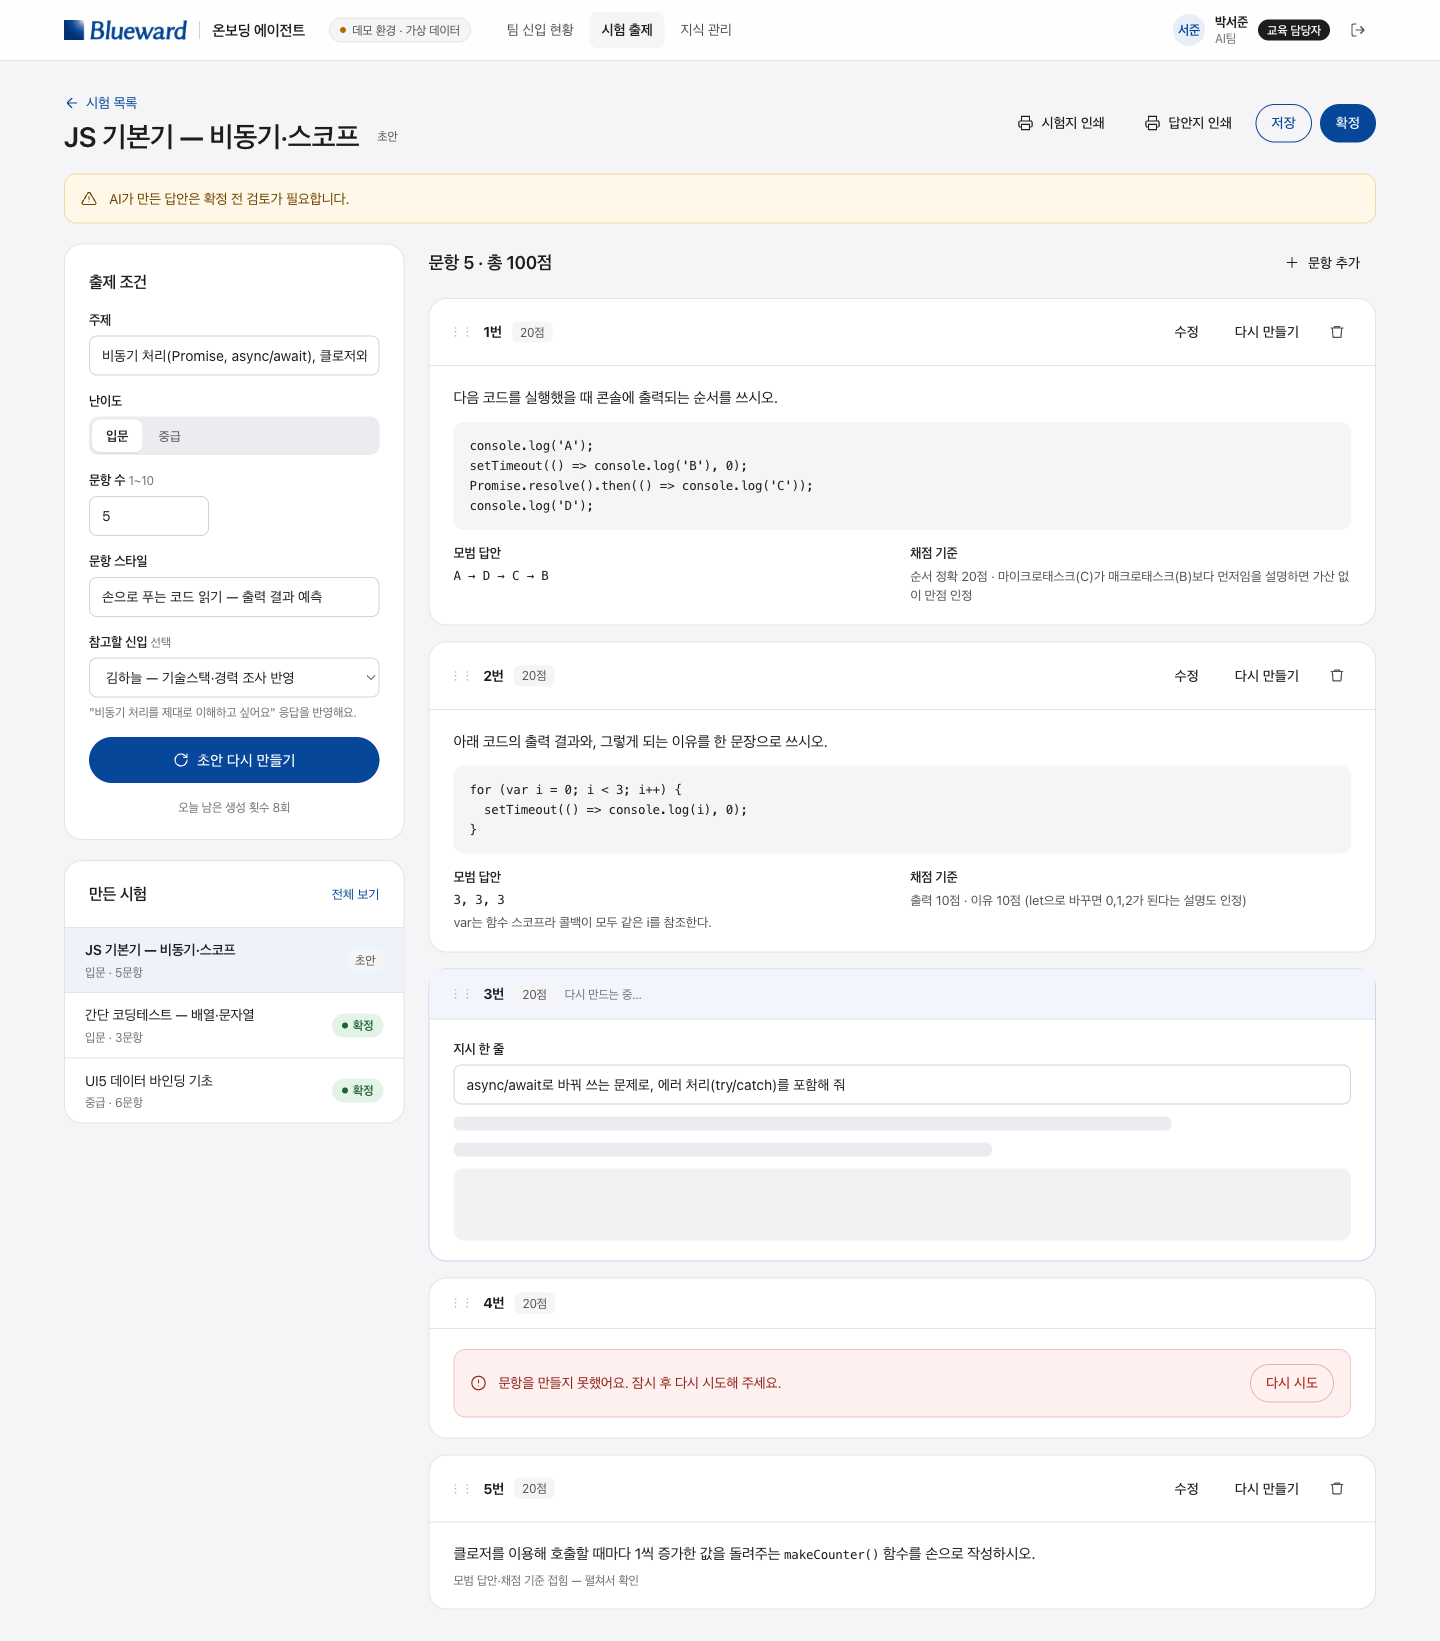
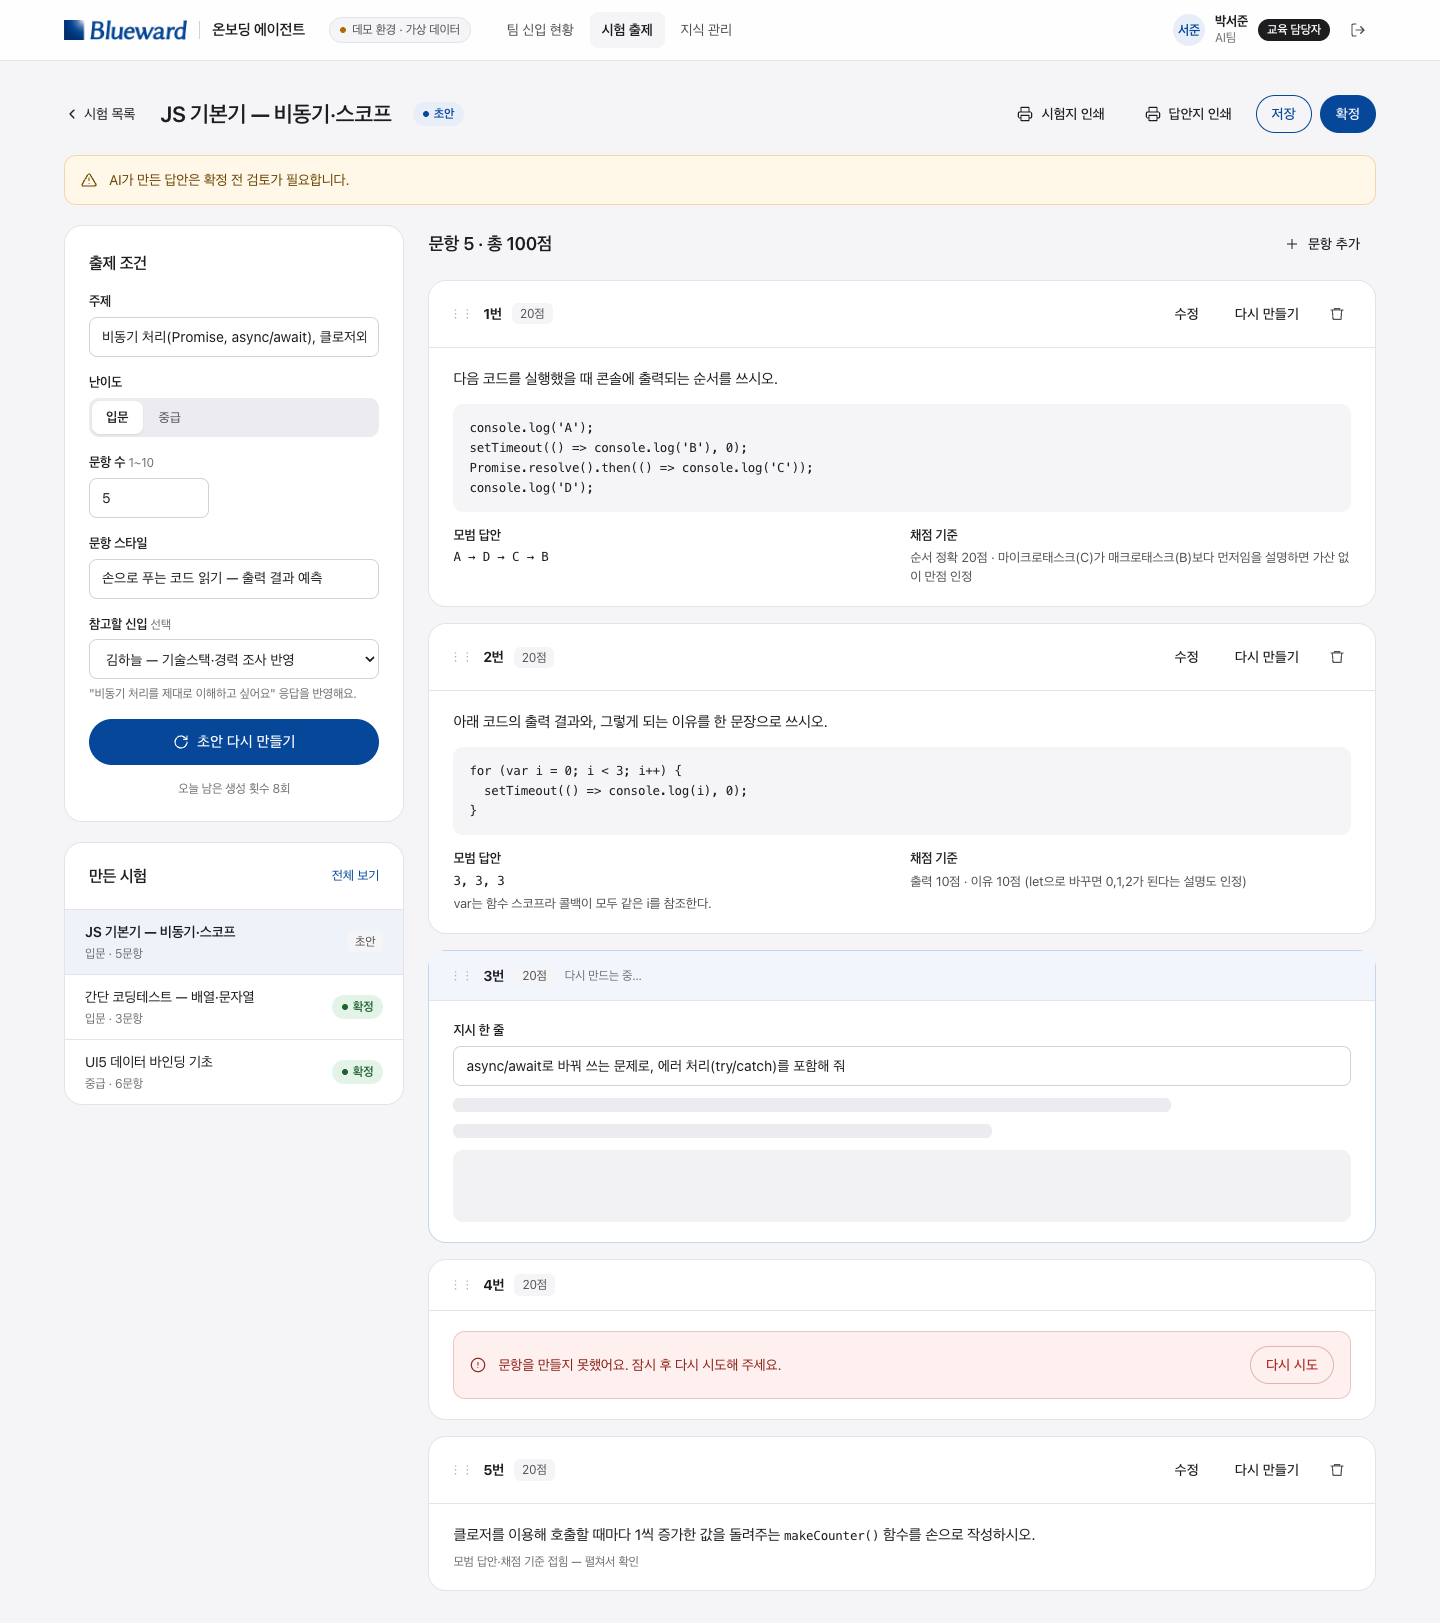
feat(web): group the exam title with its badge and remove row seams
- S7 exam editor header: back link, title and status badge sit together on
  the left (title input sizes to its text with field-sizing-content instead
  of flex-1), print/save/confirm stay grouped on the right.
- Selected/highlighted table rows (S9 ops inbox, S6 hire detail, S10
  unanswered question, S11 new user) showed a light 1px vertical seam at
  column boundaries in headed Chrome. Auto table layout gives fractional
  cell edges and Chrome paints the row background per cell, half-covering
  the shared pixel; moving the background to td alone did not remove it.
  Paint the cells and cover the seam with a 1px same-colour box-shadow
  (components/tableRow.ts). Hover only applies to unselected rows so it no
  longer hides the selection colour.
- Mockup: S7 header and .tbl selected row rule updated; rules recorded in
  system.md.

diff --git a/apps/web/src/features/exam/ExamEditorPage.tsx b/apps/web/src/features/exam/ExamEditorPage.tsx
@@ -234,22 +234,28 @@ function ExamEditor({ initial }: { initial?: ExamWithQuestions }) {
 
   return (
     <main className="mx-auto grid max-w-[1376px] gap-6 p-6 lg:p-8">
-      <div className="flex flex-wrap items-center gap-3">
-        <Link to="/team/exams" className="inline-flex items-center gap-1 text-sm">
-          <ChevronLeft className="size-4" />
-          시험 목록
-        </Link>
-        <Input
-          aria-label="시험 제목"
-          disabled={busy}
-          value={title}
-          placeholder="시험 제목(비우면 주제로 저장)"
-          maxLength={200}
-          onChange={(e) => setTitle(e.target.value)}
-          className="h-10 max-w-md flex-1 border-transparent bg-transparent text-title font-semibold shadow-none hover:border-input md:text-title"
-        />
-        <Badge variant={status === 'final' ? 'done' : 'todo'}>{EXAM_STATUS_LABEL[status]}</Badge>
-        <div className="ml-auto flex flex-wrap gap-2">
+      {/* 왼쪽: 뒤로 가기 · 제목 · 상태 배지를 붙여 묶는다. 오른쪽: 인쇄 2 · 저장 · 확정 (시안 S7 머리) */}
+      <div className="flex flex-wrap items-center justify-between gap-3">
+        <div className="flex min-w-0 flex-wrap items-center gap-3">
+          <Link to="/team/exams" className="inline-flex items-center gap-1 text-sm">
+            <ChevronLeft className="size-4" />
+            시험 목록
+          </Link>
+          <div className="flex min-w-0 items-center gap-2">
+            {/* 글자 길이만큼만 넓어진다(field-sizing, 최소 96·최대 576). 비어 있으면 placeholder 길이 */}
+            <Input
+              aria-label="시험 제목"
+              disabled={busy}
+              value={title}
+              placeholder="시험 제목(비우면 주제로 저장)"
+              maxLength={200}
+              onChange={(e) => setTitle(e.target.value)}
+              className="h-10 w-auto max-w-xl min-w-24 field-sizing-content border-transparent bg-transparent text-title font-semibold shadow-none hover:border-input md:text-title"
+            />
+            <Badge variant={status === 'final' ? 'done' : 'todo'}>{EXAM_STATUS_LABEL[status]}</Badge>
+          </div>
+        </div>
+        <div className="flex flex-wrap gap-2">
           <Button type="button" variant="outline" disabled={empty || busy} onClick={() => void print('paper')}>
             <Printer />
             시험지 인쇄

diff --git a/docs/design/onboarding-design/screens/S7-exam-editor.html b/docs/design/onboarding-design/screens/S7-exam-editor.html
@@ -30,10 +30,11 @@ a{color:var(--primary)}a:hover{color:var(--primary-pressed)}
   </header>
 
   <main class="page" style="display: flex; flex-direction: column; gap: 20px">
+    <!-- 머리: 왼쪽에 뒤로 가기 · 제목(글자 길이만큼, 눌러서 고침) · 상태 배지를 붙여 묶고, 오른쪽에 인쇄 2 · 저장 · 확정 -->
     <div class="between">
-      <div style="display: flex; flex-direction: column; gap: 6px">
-        <a href="#" class="row" style="gap: 6px; font-size: 14px"><svg class="ic" viewBox="0 0 24 24" aria-hidden="true"><path d="M19 12H5M12 19l-7-7 7-7"></path></svg>시험 목록</a>
-        <div class="row" style="gap: 10px"><h1>JS 기본기 — 비동기·스코프</h1><span class="tag">초안</span></div>
+      <div class="row" style="flex-wrap: wrap; gap: 12px; min-width: 0">
+        <a href="#" class="row" style="gap: 4px; font-size: 14px; color: var(--foreground)"><svg class="ic" viewBox="0 0 24 24" aria-hidden="true"><path d="M15 18l-6-6 6-6"></path></svg>시험 목록</a>
+        <div class="row" style="gap: 8px; min-width: 0"><h1 style="font-size: var(--fs-title); line-height: 28px; padding: 6px 12px; border: 1px solid transparent; border-radius: var(--radius-control)">JS 기본기 — 비동기·스코프</h1><span class="st st-todo">초안</span></div>
       </div>
       <div class="row" style="flex-wrap: wrap; gap: 8px">
         <a href="S8-print-paper.html" class="btn btn-ghost btn-sm"><svg class="ic" viewBox="0 0 24 24" aria-hidden="true"><path d="M6 9V2h12v7M6 18H4a2 2 0 0 1-2-2v-5a2 2 0 0 1 2-2h16a2 2 0 0 1 2 2v5a2 2 0 0 1-2 2h-2M6 14h12v8H6z"></path></svg>시험지 인쇄</a>

diff --git a/apps/web/src/features/staff/HireDetailPage.tsx b/apps/web/src/features/staff/HireDetailPage.tsx
@@ -3,6 +3,7 @@ import { useState } from 'react'
 import { Link, useNavigate, useParams } from 'react-router'
 import { useAuth } from '@/app/AuthProvider'
 import { StatusBadge } from '@/components/StatusBadge'
+import { ROW_SELECTED } from '@/components/tableRow'
 import { Badge } from '@/components/ui/badge'
 import { Button } from '@/components/ui/button'
 import { STAGE_LABEL } from '@/lib/labels'
@@ -166,7 +167,7 @@ export function HireDetailPage() {
                   const { canConfirm, canComplete } = reviewActions(task)
                   const muted = task.status === 'blocked'
                   return (
-                    <tr key={task.id} className={cn('border-b border-border last:border-b-0', task.id === selectedId && 'bg-accent')}>
+                    <tr key={task.id} className={cn('border-b border-border last:border-b-0', task.id === selectedId && ROW_SELECTED)}>
                       <td className="px-4 py-3 text-[var(--text-secondary)]">{STAGE_LABEL[task.template.stage]}</td>
                       <td className={cn('px-4 py-3', muted ? 'text-[var(--text-secondary)]' : 'font-medium')}>{task.template.title}</td>
                       <td className="px-4 py-3">

diff --git a/apps/web/src/features/staff/KnowledgePage.tsx b/apps/web/src/features/staff/KnowledgePage.tsx
@@ -1,6 +1,7 @@
 import { Plus, Search } from 'lucide-react'
 import { useState } from 'react'
 import { useAuth } from '@/app/AuthProvider'
+import { ROW_SELECTED } from '@/components/tableRow'
 import { Badge } from '@/components/ui/badge'
 import { Button } from '@/components/ui/button'
 import { Input } from '@/components/ui/input'
@@ -139,7 +140,7 @@ export function KnowledgePage() {
                     {unanswered.map((q) => {
                       const active = editing?.mode === 'resolve' && editing.unanswered.id === q.id
                       return (
-                        <tr key={q.id} className={cn('border-b border-border last:border-b-0', active && 'bg-accent')}>
+                        <tr key={q.id} className={cn('border-b border-border last:border-b-0', active && ROW_SELECTED)}>
                           <td className="px-4 py-3 font-semibold">{q.question}</td>
                           <td className="px-4 py-3 text-[var(--text-secondary)]">{formatDateTime(q.created_at)}</td>
                           <td className="px-4 py-3">{q.team?.name ?? '—'}</td>

diff --git a/apps/web/src/features/staff/OpsInboxPage.tsx b/apps/web/src/features/staff/OpsInboxPage.tsx
@@ -1,6 +1,7 @@
 import { useMemo, useState } from 'react'
 import { useAuth } from '@/app/AuthProvider'
 import { StatusBadge } from '@/components/StatusBadge'
+import { ROW_FOCUS, ROW_HOVER, ROW_SELECTED } from '@/components/tableRow'
 import { Button } from '@/components/ui/button'
 import { NativeSelect } from '@/components/ui/native-select'
 import { OWNER_LABEL } from '@/lib/labels'
@@ -181,8 +182,8 @@ export function OpsInboxPage() {
                             }
                           }}
                           className={cn(
-                            'cursor-pointer border-b border-border last:border-b-0 hover:bg-surface-subtle focus-visible:bg-accent focus-visible:outline-none',
-                            task.id === selectedId && 'bg-accent',
+                            'cursor-pointer border-b border-border last:border-b-0',
+                            task.id === selectedId ? ROW_SELECTED : cn(ROW_HOVER, ROW_FOCUS),
                           )}
                         >
                           <td className="px-4 py-3">

diff --git a/apps/web/src/features/admin/UsersPage.tsx b/apps/web/src/features/admin/UsersPage.tsx
@@ -5,6 +5,7 @@ import type { Profile } from '@/app/AuthProvider'
 import type { Enums } from '@/lib/database.types'
 import { FilterChips } from '@/components/FilterChips'
 import { PageHeader } from '@/components/PageHeader'
+import { ROW_SELECTED } from '@/components/tableRow'
 import { Alert } from '@/components/ui/alert'
 import { OWNER_LABEL, ROLE_LABEL } from '@/lib/labels'
 import { cn } from '@/lib/utils'
@@ -133,7 +134,7 @@ export function UsersPage() {
                   {visible.map((u) => {
                     const isNew = createdIds.includes(u.id)
                     return (
-                      <tr key={u.id} className={cn('border-b border-border last:border-b-0', isNew && 'bg-accent')}>
+                      <tr key={u.id} className={cn('border-b border-border last:border-b-0', isNew && ROW_SELECTED)}>
                         <td className="px-4 py-3 font-semibold">
                           {u.full_name}
                           {isNew && (

diff --git a/apps/web/src/components/tableRow.ts b/apps/web/src/components/tableRow.ts
@@ -1,0 +1,11 @@
+// 표의 선택·강조 행(시안 .tbl tr.sel td).
+// 자동 표 배치는 칸 너비가 소수점(예: 915.27px)이 되고, Chrome은 행 배경을 칸마다 따로 그리면서 경계 픽셀을
+// 반만 칠한다. 그래서 tr에 배경을 주면(칸에 줘도) 칸 사이에 밝은 1px 세로줄이 남는다.
+// 배경은 칸(td)에 칠하고, 오른쪽으로 1px 그림자를 같은 색으로 깔아 이음새를 덮는다.
+export const ROW_SELECTED = '[&>td]:bg-accent [&>td]:shadow-[1px_0_0_var(--accent)]'
+
+// 선택되지 않은 행에만 쓴다(선택 행에 같이 주면 hover가 선택 색을 덮는다).
+export const ROW_HOVER = 'hover:[&>td]:bg-surface-subtle hover:[&>td]:shadow-[1px_0_0_var(--surface-subtle)]'
+
+// 키보드 포커스는 선택과 같은 색(S9 업무함 행)
+export const ROW_FOCUS = 'focus-visible:outline-none focus-visible:[&>td]:bg-accent focus-visible:[&>td]:shadow-[1px_0_0_var(--accent)]'

diff --git a/docs/design/onboarding-design/assets/ui.css b/docs/design/onboarding-design/assets/ui.css
@@ -151,8 +151,9 @@ a{color:var(--link);text-decoration:none}a:hover{text-decoration:underline}
 .tbl th{text-align:left;font-size:12px;font-weight:600;color:var(--muted);padding:10px 16px;border-bottom:1px solid var(--border);white-space:nowrap;background:var(--surface-subtle)}
 .tbl td{padding:14px 16px;border-bottom:1px solid var(--border);vertical-align:middle}
 .tbl tr:last-child td{border-bottom:0}
-.tbl tr.sel td{background:var(--selected)}
-.tbl tr:hover td{background:var(--surface-subtle)}
+/* 선택 행: 배경은 칸(td)에. 자동 표 배치의 소수점 칸 경계에 생기는 1px 이음새를 같은 색 그림자로 덮는다 */
+.tbl tr.sel td{background:var(--selected);box-shadow:1px 0 0 var(--selected)}
+.tbl tr:not(.sel):hover td{background:var(--surface-subtle);box-shadow:1px 0 0 var(--surface-subtle)}
 
 /* Tabs (segmented) */
 .tabs{display:inline-flex;gap:2px;padding:3px;background:var(--fill);border-radius:10px}

diff --git a/apps/web/src/features/staff/OpsInboxPage.test.tsx b/apps/web/src/features/staff/OpsInboxPage.test.tsx
@@ -202,4 +202,17 @@ describe('OpsInboxPage (S9)', () => {
     renderPage([points])
     expect(screen.getByText('확인 대기 중인 과제가 없어요')).toBeInTheDocument()
   })
+
+  // 선택 행 배경을 tr에 칠하면 칸 경계(소수점 너비)에 흰 세로줄이 생긴다. 칸(td)에 칠하고 1px 그림자로 이음새를 덮는다.
+  it('선택한 행은 aria-selected이고 배경을 칸(td)에 칠한다', async () => {
+    const user = userEvent.setup()
+    renderPage()
+    await user.click(bodyRows()[0])
+    const row = bodyRows()[0]
+    expect(row).toHaveAttribute('aria-selected', 'true')
+    expect(row).toHaveClass('[&>td]:bg-accent')
+    expect(row).not.toHaveClass('bg-accent')
+    expect(bodyRows()[1]).toHaveAttribute('aria-selected', 'false')
+    expect(bodyRows()[1]).not.toHaveClass('[&>td]:bg-accent')
+  })
 })

diff --git a/apps/web/src/features/staff/HireDetailPage.test.tsx b/apps/web/src/features/staff/HireDetailPage.test.tsx
@@ -209,4 +209,13 @@ describe('HireDetailPage (S6)', () => {
     )
     expect(screen.getByText('신입을 찾을 수 없어요')).toBeInTheDocument()
   })
+
+  it('처리 중인 행은 배경을 칸(td)에 칠한다(tr 배경의 세로줄 방지)', async () => {
+    const user = userEvent.setup()
+    renderPage([review, btp])
+    const row = screen.getByRole('row', { name: /코드 리뷰 실습/ })
+    await user.click(within(row).getByRole('button', { name: '처리' }))
+    expect(row).toHaveClass('[&>td]:bg-accent')
+    expect(row).not.toHaveClass('bg-accent')
+  })
 })

diff --git a/.interface-design/system.md b/.interface-design/system.md
@@ -101,6 +101,11 @@
 
 `role="tab"`이나 `role="radio"`를 붙인 `button`을 직접 만들지 않는다.
 
+- **표 선택 행:** 선택·처리 중·새로 만든 행은 `components/tableRow.ts`의 `ROW_SELECTED`를 쓴다(시안 `.tbl tr.sel td`). `tr`에 `bg-accent`를 직접 주지 않는다.
+  - 이유: 자동 표 배치는 칸 경계가 소수점(예: 915.27px)이라, Chrome이 행 배경을 칸마다 그리며 경계 픽셀을 반만 칠한다. 창을 띄운 Chrome 1440px에서 칸 사이에 밝은 1px 세로줄이 보였다. 배경을 `td`로 옮기는 것만으로는 사라지지 않아서, 같은 색 `1px` 오른쪽 그림자로 이음새를 덮는다.
+  - hover(`ROW_HOVER`)는 선택되지 않은 행에만 준다. 같이 주면 hover가 선택 색을 덮는다. 키보드 포커스 행은 `ROW_FOCUS`(선택과 같은 색).
+- **편집 화면 머리(S7):** 왼쪽에 뒤로 가기 · 제목 · 상태 배지를 붙여 묶고, 오른쪽에 동작 버튼을 묶는다. 고칠 수 있는 제목 입력은 `field-sizing-content`로 글자 길이만큼만 넓히고(최소 `min-w-24`, 최대 `max-w-xl`), `flex-1`을 주지 않는다. 배지가 머리 가운데 떠 있지 않게 하려는 것이다.
+
 - **S2 초점 패턴(지금 할 일):**
   - 정렬은 보완 요청 → 기한 이른 순(기한 없음은 뒤) → 단계 → 순서다.
   - 처음 5건만 보이고 "나머지 N건 보기"(44px 고스트 버튼, `aria-expanded`)로 펼친다.
